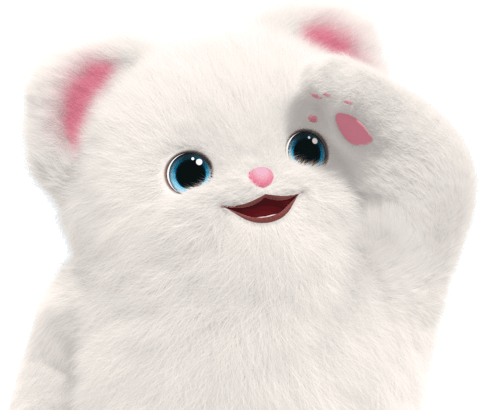
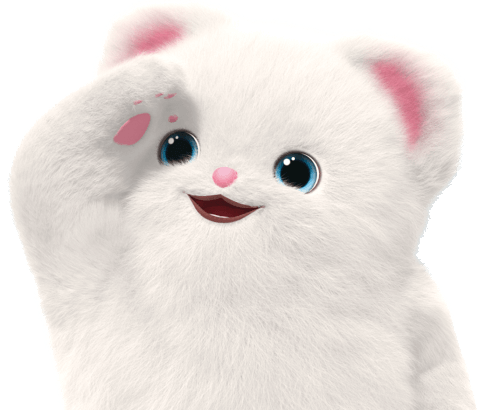
fix flipped image tag

diff --git a/src/policies/KL_create_user_or_sign_in/pages/error/index.html b/src/policies/KL_create_user_or_sign_in/pages/error/index.html
@@ -7,24 +7,24 @@
             content="width=device-width, initial-scale=1.0, maximum-scale=1.0, user-scalable=no"
         />
         <link
-            href="../../../common/css/fonts.css"
+            href="../../common/css/fonts.css"
             rel="stylesheet"
             data-preload="true"
         />
         <link
-            href="../../../common/css/global.css"
-            rel="stylesheet"
-            data-preload="true"
-            type="text/css"
-        />
-        <link
-            href="../../../common/css/teacher.css"
+            href="../../common/css/global.css"
             rel="stylesheet"
             data-preload="true"
             type="text/css"
         />
         <link
-            href="../index.css"
+            href="../../common/css/teacher.css"
+            rel="stylesheet"
+            data-preload="true"
+            type="text/css"
+        />
+        <link
+            href="index.css"
             rel="stylesheet"
             data-preload="true"
             type="text/css"
@@ -38,7 +38,7 @@
                 <div class="header">
                     <img
                         class="logo"
-                        src="../../../../../assets/logo.svg"
+                        src="../../../../assets/logo.svg"
                         alt="KidsLoop logo"
                     />
                 </div>
@@ -48,8 +48,7 @@
             </div>
             <div class="space-filler-error">
                 <img
-                    class="space-filler-image-error"
-                    src="../../../../../assets/badanamu_look.png"
+                    src="../../../../assets/badanamu_look.png"
                     alt="Badanamu looking"
                 />
             </div>

diff --git a/src/policies/KL_create_user_or_sign_in/pages/error/index.css b/src/policies/KL_create_user_or_sign_in/pages/error/index.css
@@ -5,7 +5,3 @@
     min-height: 100vh;
     width: 50vw;
 }
-
-.space-filler-image-error {
-    transform: scaleX(-1);
-}
